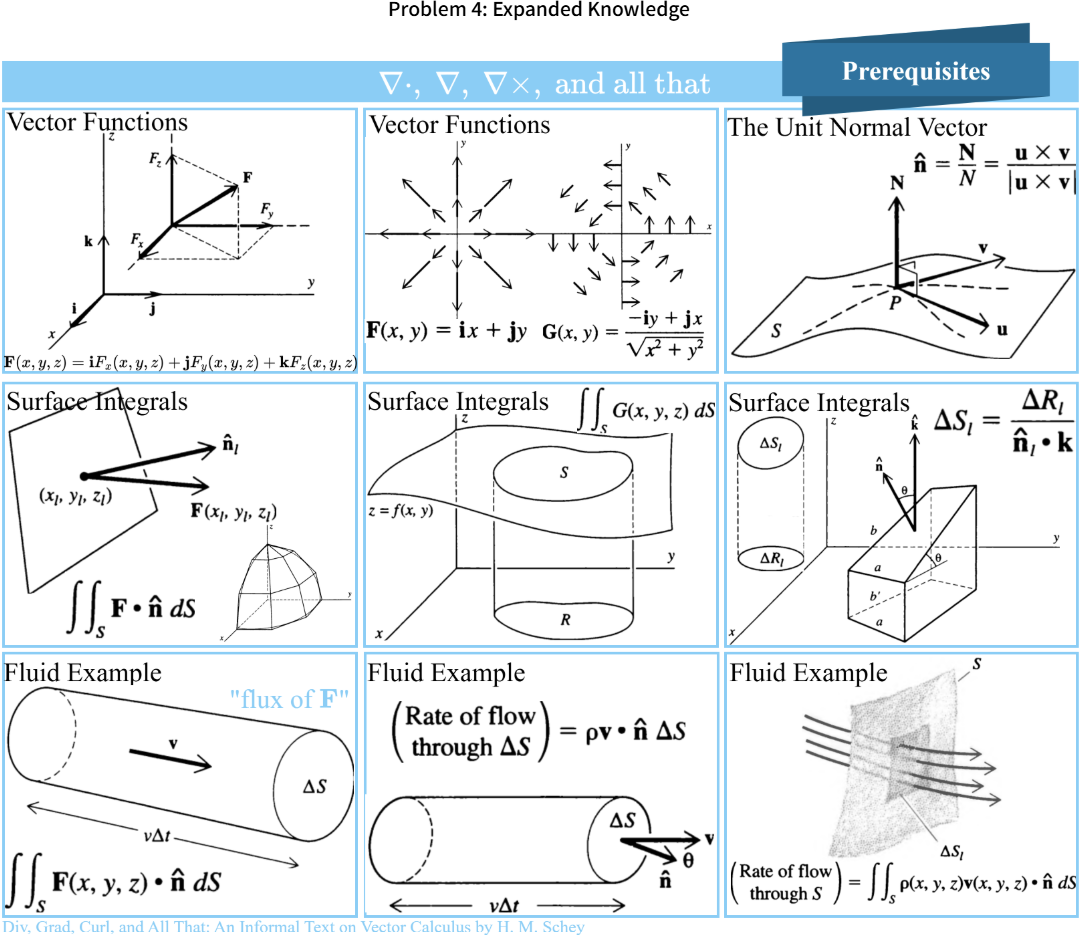
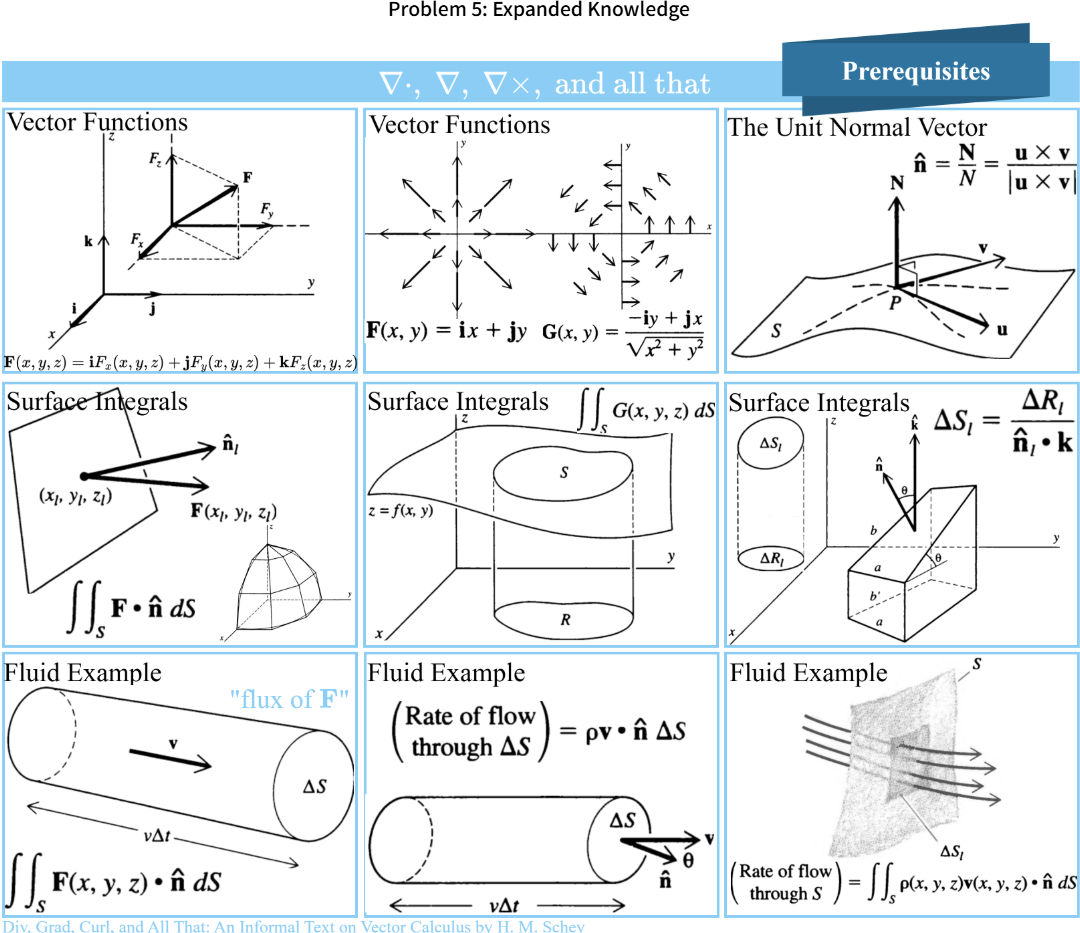
Update

diff --git a/PS1Slide34.html b/PS1Slide34.html
@@ -162,7 +162,7 @@ window.addEventListener('resize', scaleContainer);
 <body>
 <body>
 <div class="container">
-        <div class="title">Problem 4: Expanded Knowledge</div>
+        <div class="title">Problem 5: Expanded Knowledge</div>
         <div class="slide"> 
 <img src="Figures/PS1_VectorPrerequisites.png" alt="VectorPrerequisites" style="max-width: 100%; height: 100%;">
 </div>
